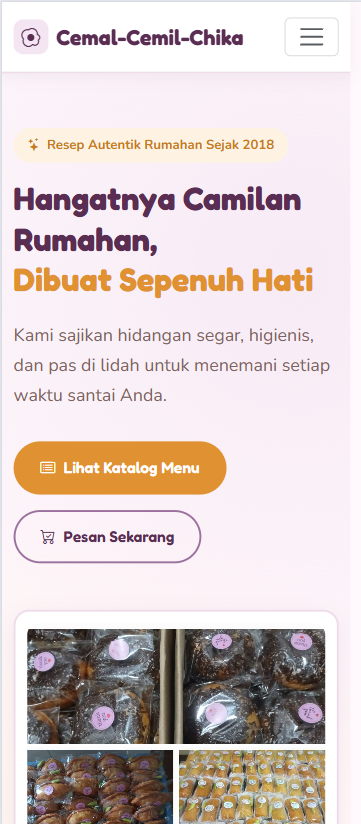
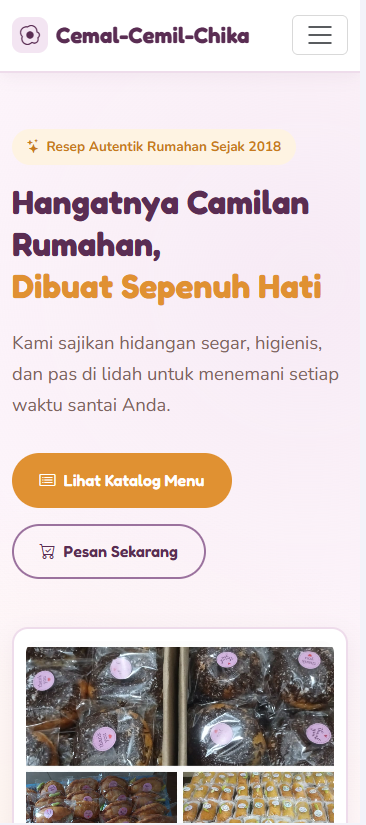
tambahan s3c validator, lighthouse, dan perbaikan foto yang tidak sesuai

diff --git a/index.html b/index.html
@@ -146,7 +146,7 @@
               <div class="feature-icon-bubble">
                 <i class="bi bi-heart-pulse"></i>
               </div>
-              <h3>Resep Autentik Ibu</h3>
+              <h3>Resep Autentik </h3>
               <p>
                 Resep turun-temurun dengan racikan bumbu pas, menghadirkan
                 aroma dan rasa nostalgia masakan rumah.
@@ -377,7 +377,7 @@
               camilan lezat untuk pelanggan setia di Surabaya.
             </p>
             <p class="text-muted mb-4">
-              Setiap menu diracik langsung oleh Ibu dengan dedikasi tinggi
+              Setiap menu diracik langsung oleh orang di dapur dengan dedikasi tinggi
               agar setiap gigitan menghadirkan kehangatan masakan rumah yang
               tak tergantikan.
             </p>

diff --git a/README.md b/README.md
@@ -96,7 +96,9 @@ Seluruh warna dan variabel desain diatur terpusat di `:root` pada file `css/styl
 
 ### B. Hasil Audit & Aksesibilitas
 - **W3C Markup Validator:** 0 Error di seluruh 7 halaman HTML.
+![W3C](img/screenshots/W3C.png)
 - **Skor Lighthouse Accessibility:** ≥ 90 di seluruh halaman utama.
+![LightHouse](img/screenshots/LightHouse.png)
 - **Uji Navigasi Keyboard:** Situs dapat dijelajahi penuh hanya dengan tombol `Tab`, `Enter`, dan `Space`, didukung skip link *"Lewati ke konten utama"* serta indikator fokus keyboard (`:focus-visible`).
 
 ---
@@ -104,4 +106,4 @@ Seluruh warna dan variabel desain diatur terpusat di `:root` pada file `css/styl
 ## 7. Sumber Aset & Pernyataan Penggunaan AI
 - **Sumber Gambar:** Seluruh dokumentasi makanan dan dapur adalah **foto asli** dari usaha kuliner Cemal-Cemil-Chika (dokumen pribadi UMKM dengan izin pemilik).
 - **Sumber Ikon:** Menggunakan *Bootstrap Icons v1.11.3* (lisensi MIT).
-- **Penggunaan AI:** Menggunakan bantuan asisten AI (Antigravity / Gemini) sebagai rekan diskusi teknis untuk meninjau kepatuhan spesifikasi teknis tugas UTS, menyusun kerangka semantik HTML5, memverifikasi aksesibilitas (ARIA/WCAG).
+- **Penggunaan AI:** Menggunakan bantuan asisten AI (Antigravity / Gemini) sebagai rekan diskusi teknis untuk meninjau kepatuhan spesifikasi teknis tugas UTS, menyusun kerangka semantik HTML5, memverifikasi aksesibilitas.
